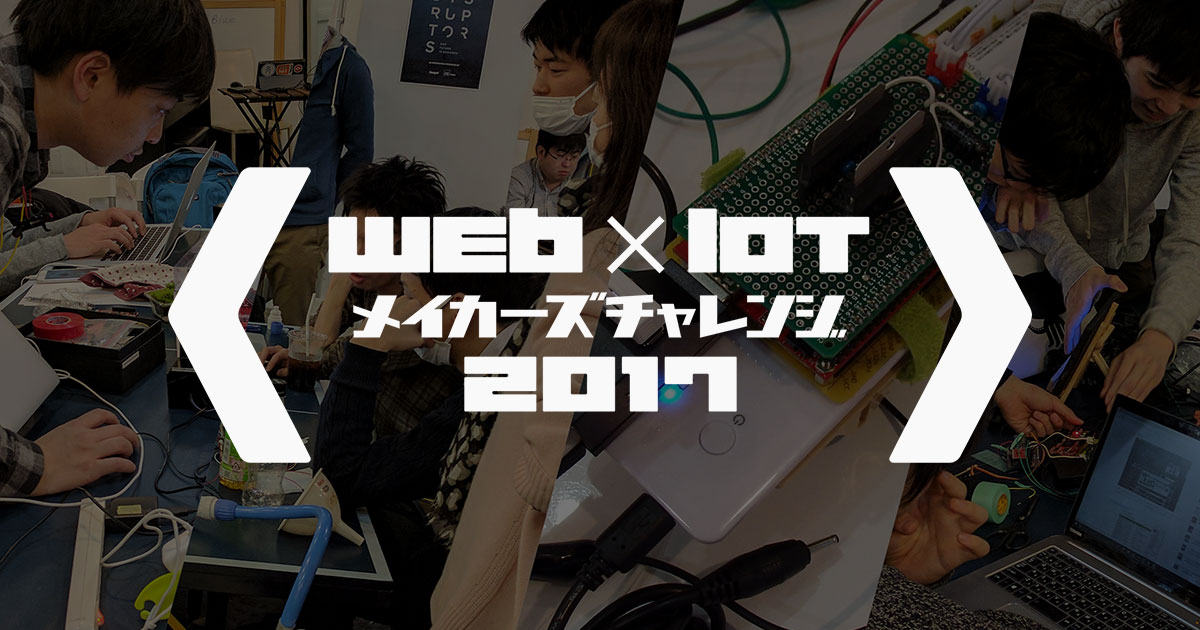
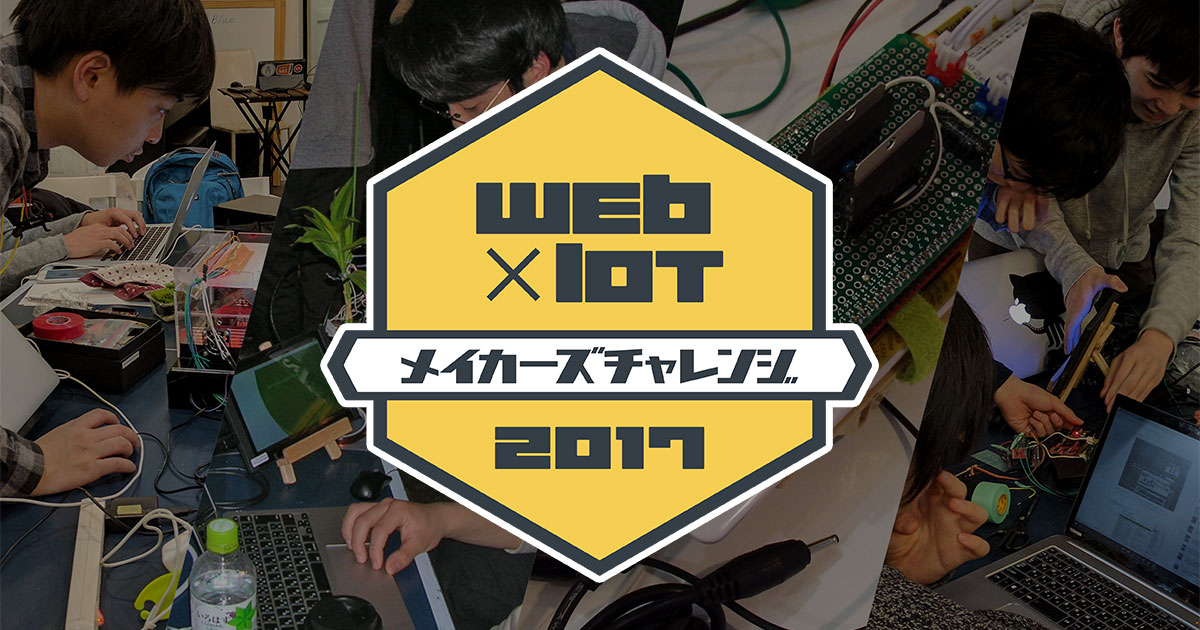
OGP 画像を変更

diff --git a/tottori/index.html b/tottori/index.html
@@ -7,7 +7,7 @@
     <meta name="twitter:card" content="summary_large_image">
     <meta property="og:title" content="Web × IoT メイカーズチャレンジ 2017 in 鳥取">
     <meta property="og:description" content="小型ボードコンピューター Raspberry Pi 3 を使って、物理デバイス (モノ) を JavaScript からコントロールする「WebGPIO」や「I2C」といった低レベル API の操作などを実践的に学ぶハンズオン講習会を行います。講習会の 3 週間後には、学んだ知識を活用し 2 日間で実際に作品を作ってその出来を競い合う「ハッカソン = Hackathon」イベントを開催します。">
-    <meta property="og:image" content="https://webiotmakers.github.io/static/images/general/ogp.jpg">
+    <meta property="og:image" content="https://webiotmakers.github.io/static/images/general/ogp.jpg?v=2">
     <title>Web × IoT メイカーズチャレンジ 2017 in 鳥取</title>
     <link rel="stylesheet" href="/static/styles/main.css">
     <link rel="stylesheet" href="/static/styles/local.css">
@@ -17,7 +17,7 @@
   <body class="local" id="local-tottori">
     <main itemscope itemtype="http://schema.org/Event">
       <meta itemprop="url" content="https://webiotmakers.github.io/tottori/">
-      <meta itemprop="image" content="https://webiotmakers.github.io/static/images/general/ogp.jpg">
+      <meta itemprop="image" content="https://webiotmakers.github.io/static/images/general/ogp.jpg?v=2">
       <div id="header-outer" class="outer">
         <div class="inner">
           <header id="header">

diff --git a/index.html b/index.html
@@ -7,7 +7,7 @@
     <meta name="twitter:card" content="summary_large_image">
     <meta property="og:title" content="Web × IoT メイカーズチャレンジ 2017">
     <meta property="og:description" content="今話題の IoT の世界に一歩踏み出すきっかけとしていただけるよう、若者を対象とした IoT スキルアップのためのイベントシリーズ「Web × IoT メイカーズチャレンジ 2017」を全国 5 ヶ所で開催します。">
-    <meta property="og:image" content="https://webiotmakers.github.io/static/images/general/ogp.jpg">
+    <meta property="og:image" content="https://webiotmakers.github.io/static/images/general/ogp.jpg?v=2">
     <title>Web × IoT メイカーズチャレンジ 2017</title>
     <link rel="stylesheet" href="/static/styles/main.css">
     <link rel="stylesheet" href="/static/styles/landing.css">
